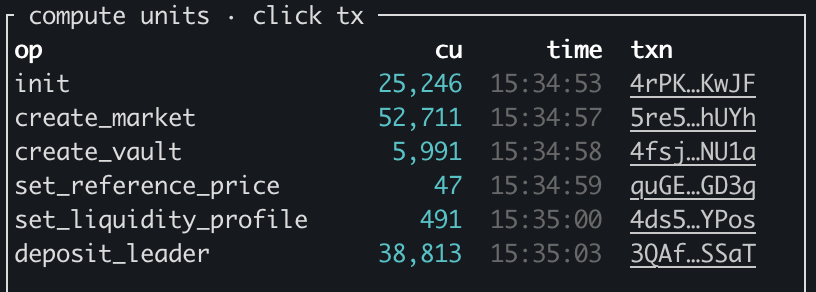
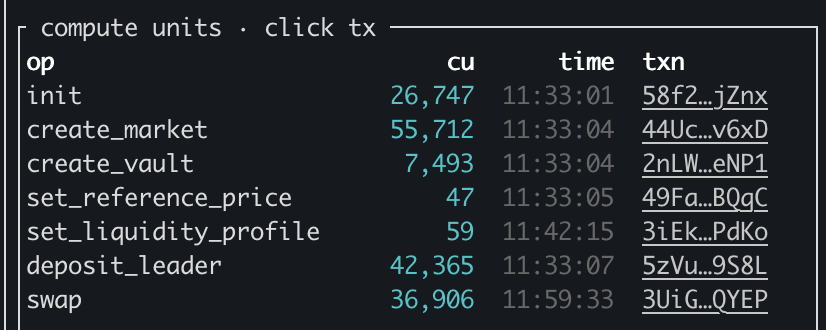
Claim the reshape instruction's new compute-unit cost
The assembly hot path for set_liquidity_profile has landed, so a reshape costs
59 compute units where it cost 491. Restitch the compute-unit capture and say
the stronger thing: both hot-path quote operations are now double digits against
a two-hundred-thousand budget, which is the whole propAMM-efficiency claim in
two numbers. The eyebrow carries it, since the on-slide sentence can't.

Alphabetize the logo rows — the five Solana venues, and each end of the flywheel
— so no row implies a ranking, the way the threats row already didn't.

diff --git a/decks/app/demo-v1/DemoDeck.tsx b/decks/app/demo-v1/DemoDeck.tsx
@@ -319,15 +319,16 @@ const THREATS: Logo[] = [
   { name: "Tempo", src: "/remote/logo-tempo.svg" },
 ];
 
-// Page 6 — the big Solana venues, whose attention is elsewhere. Sourced from
-// each project's own asset (Jupiter, Meteora) or the Solana token list, so
+// Page 6 — the big Solana venues, whose attention is elsewhere. Alphabetical,
+// like the threats row, so neither implies a ranking. Sourced from each
+// project's own asset (Jupiter, Meteora, pump.fun) or the Solana token list, so
 // every mark is transparent and reads on black rather than in a white box.
 const INCUMBENTS: Logo[] = [
   { name: "Jupiter", src: "/remote/logo-jupiter.svg" },
-  { name: "Orca", src: "/remote/logo-orca.png" },
-  { name: "Raydium", src: "/remote/logo-raydium.png" },
   { name: "Meteora", src: "/remote/logo-meteora.svg" },
+  { name: "Orca", src: "/remote/logo-orca.png" },
   { name: "pump.fun", src: "/remote/logo-pump-fun.svg" },
+  { name: "Raydium", src: "/remote/logo-raydium.png" },
 ];
 
 /**
@@ -337,8 +338,8 @@ const INCUMBENTS: Logo[] = [
  * is the point of the page — a venue needs each end to bootstrap.
  */
 const UPSTREAM: Logo[] = [
-  { name: "Loon", src: "/remote/logo-cadc.png", note: "CADC issuer" },
   { name: "AUDD Digital", src: "/remote/logo-audd.png", note: "AUDD issuer" },
+  { name: "Loon", src: "/remote/logo-cadc.png", note: "CADC issuer" },
 ];
 
 const DOWNSTREAM: Logo[] = [
@@ -539,7 +540,7 @@ export default function DemoDeck() {
       {/* 4 — The eCLOB */}
       <Slide>
         <SlideBody>
-          <Eyebrow>The eCLOB</Eyebrow>
+          <Eyebrow>The eCLOB · quotes in double-digit CU</Eyebrow>
           <Statement fontSize="44px">
             Institutional-grade atomic settlement: order book transparency,
             propAMM efficiency.
@@ -562,8 +563,8 @@ export default function DemoDeck() {
               <Screenshot
                 src="/screens/compute-units.png"
                 width={330}
-                alt="Compute units per instruction: a reprice costs 47, a reshape 491"
-                caption="Reprice: 47 CU · reshape: 491 CU"
+                alt="Compute units per instruction: a reprice costs 47, a reshape 59"
+                caption="Reprice: 47 CU · reshape: 59 CU"
               />
               <DemoBadge network="localnet" />
             </Box>
@@ -574,8 +575,9 @@ export default function DemoDeck() {
           venue — so we built one. The eCLOB gives you the liquidity guarantees
           of a central limit order book with quote updates as cheap as a
           propAMM: a maker repricing the whole book costs forty-seven compute
-          units, reshaping the ladder about five hundred. That’s what lets us
-          bootstrap a brand-new market and onboard makers fast. [Play the
+          units, and reshaping the ladder fifty-nine — both double digits, on a
+          chain that gives you two hundred thousand per instruction. That’s what
+          lets us bootstrap a brand-new market and onboard makers fast. [Play the
           localnet demo video: the book starts empty, the maker bots come on,
           and real depth fills in within seconds — then a trade fills against
           it.]
@@ -615,8 +617,8 @@ export default function DemoDeck() {
         <Notes>
           Their liquidity isn’t public: it sits inside private or permissioned
           rails, where you can’t make a market unless they let you. Dropset’s
-          is. And the venues that are public — Jupiter, Orca, Raydium, Meteora,
-          pump.fun — are chasing SOL and memes, because that’s where the volume
+          is. And the venues that are public — Jupiter, Meteora, Orca, pump.fun,
+          Raydium — are chasing SOL and memes, because that’s where the volume
           is today. It’s a classic innovator’s dilemma: FX is too small to move
           them and big enough for us. Dropset is the open, neutral, composable
           venue — anyone can quote, anyone can trade, any app can integrate —
@@ -637,9 +639,9 @@ export default function DemoDeck() {
           We seed the markets ourselves the way Hyperliquid did — our vaults
           bootstrap each book, and anyone can top them off with inventory, so
           the flywheel is public rather than ours alone. It has two ends, and
-          we’re talking to partners at both. Upstream, issuers like Loon, who
-          issues CADC, and AUDD Digital: they mint a currency and need it to
-          actually trade. Downstream, the demand — Colosseum partners like
+          we’re talking to partners at both. Upstream, issuers like AUDD
+          Digital, and Loon, who issues CADC: they mint a currency and need it
+          to actually trade. Downstream, the demand — Colosseum partners like
           Altitude in banking and CargoBill in supply chain, who need to buy FX
           onchain to settle. Connect the two ends and the depth compounds.
         </Notes>

diff --git a/decks/demo-v1-spec.md b/decks/demo-v1-spec.md
@@ -44,7 +44,8 @@ pages:
 > currency and the swap settles. And we're just getting started, because
 > the markets that don't exist yet need a venue. So we built the eCLOB:
 > the depth of an order book, with quote updates as cheap as a propAMM —
-> a maker repricing the whole book costs forty-seven compute units. Watch a
+> a maker repricing the whole book costs forty-seven compute units and
+> reshaping the ladder fifty-nine. Watch a
 > brand-new market come alive: the book starts empty, the makers come
 > on, and real depth fills in within seconds. So why will this fail?
 > Permissioned distribution: Arc, Tempo, and Canton are all chasing
@@ -108,20 +109,23 @@ pages:
 #### Page 4 — The eCLOB [DEMO VIDEO · localnet] · ~30s
 
 - **On-slide:** Institutional-grade atomic settlement: order book
-  transparency, propAMM efficiency.
+  transparency, propAMM efficiency. Eyebrow: "The eCLOB · quotes in
+  double-digit CU".
 - **Visual:** Two captures side by side, top-aligned — the "Market maker
   TUI" (markets list + a live book) and the compute-unit pane showing
-  what a quote update costs. Badge **demo video · localnet** at the foot
-  of the right column, in the space the shorter capture leaves.
+  what a quote update costs, captioned "Reprice: 47 CU · reshape: 59 CU".
+  Badge **demo video · localnet** at the foot of the right column, in the
+  space the shorter capture leaves.
 - **Spoken:** "The routing works today, but the markets that don't exist
   yet need a venue — so we built one. The eCLOB gives you the liquidity
   guarantees of a central limit order book with quote updates as cheap
   as a propAMM: a maker repricing the whole book costs forty-seven
-  compute units, reshaping the ladder about five hundred. That's what
-  lets us bootstrap a brand-new market and onboard makers fast. \[play
-  the localnet demo video: the book starts empty, the maker bots come
-  on, real depth fills in within seconds, then a trade fills against
-  it\]"
+  compute units, and reshaping the ladder fifty-nine — both double
+  digits, on a chain that gives you two hundred thousand per instruction.
+  That's what lets us bootstrap a brand-new market and onboard makers
+  fast. \[play the localnet demo video: the book starts empty, the maker
+  bots come on, real depth fills in within seconds, then a trade fills
+  against it\]"
 - **Note:** This page carries both halves of the eCLOB pitch — the
   design (cheap quotes, shown as real compute-unit numbers) and the
   proof (a market bootstrapped from empty). The video is **localnet**,
@@ -156,13 +160,14 @@ pages:
   DEXes face an innovator's dilemma (SOL, memes).
 - **Eyebrow:** \*Why Dropset won't actually fail — the payoff to the
   previous page's asterisk.
-- **Visual:** Jupiter, Orca, Raydium, Meteora and pump.fun as a row of
+- **Visual:** Jupiter, Meteora, Orca, pump.fun and Raydium as a row of
   logo tiles, matching the previous page's row — the public venues, whose
-  attention is elsewhere.
+  attention is elsewhere. Alphabetical, like the threats row, so neither
+  implies a ranking.
 - **Spoken:** "Their liquidity isn't public: it sits inside private or
   permissioned rails, where you can't make a market unless they let you.
-  Dropset's is. And the venues that are public — Jupiter, Orca, Raydium,
-  Meteora, pump.fun — are chasing SOL and memes, because that's where the
+  Dropset's is. And the venues that are public — Jupiter, Meteora, Orca,
+  pump.fun, Raydium — are chasing SOL and memes, because that's where the
   volume is today. It's a classic innovator's dilemma: FX is too small to
   move them and big enough for us. Dropset is the open, neutral,
   composable venue — anyone can quote, anyone can trade, any app can
@@ -179,11 +184,12 @@ pages:
 
 - **On-slide:** Vaults bootstrap a public FX liquidity flywheel.
 - **Visual:** A big curve of depth growing, over the flywheel's two ends —
-  **Upstream** (Loon, who issues CADC; AUDD Digital) and **Downstream**
+  **Upstream** (AUDD Digital; Loon, who issues CADC) and **Downstream**
   (Altitude, CargoBill), all people we've actually talked to about
-  sourcing liquidity. Each heading sits over a rule spanning its own two
-  tiles, and nothing runs between the ends. Each tile is captioned with
-  the company, then what they are to us: "Loon / CADC issuer", "Altitude /
+  sourcing liquidity — each group alphabetical. Each heading sits over a
+  rule spanning its own two tiles, and nothing runs between the ends. Each
+  tile is captioned with the company, then what they are to us, left-
+  aligned with the tile above it: "Loon / CADC issuer", "Altitude /
   Banking".
 - **Note:** Getting this page to read took several tries, so don't undo
   it. Four evenly-spaced tiles look like one row of four, and a hairline
@@ -195,8 +201,8 @@ pages:
 - **Spoken:** "We seed the markets ourselves the way Hyperliquid did —
   our vaults bootstrap each book, and anyone can top them off with
   inventory, so the flywheel is public rather than ours alone. It has two
-  ends, and we've talked with both. Upstream are the issuers — Loon, who
-  issues CADC, and AUDD Digital — who mint a currency and need it to
+  ends, and we've talked with both. Upstream are the issuers — AUDD
+  Digital, and Loon, who issues CADC — who mint a currency and need it to
   actually trade. Downstream is the demand: Colosseum partners like
   Altitude in banking and CargoBill in supply chain, who need to buy FX
   onchain to settle. Connect the two ends and the depth compounds."
